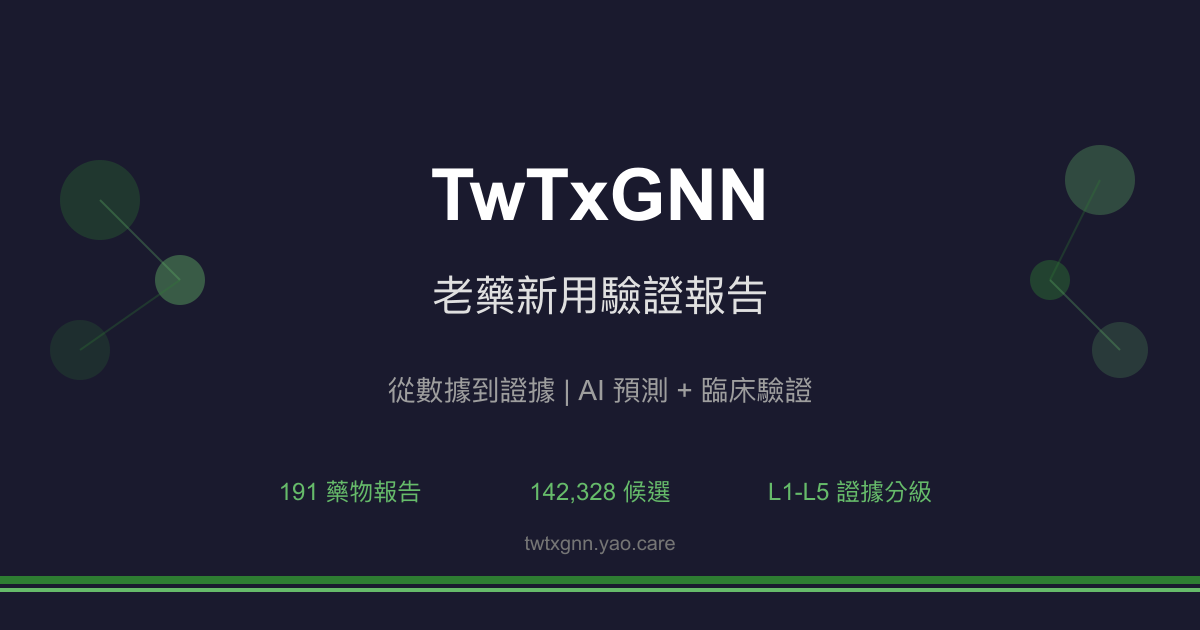
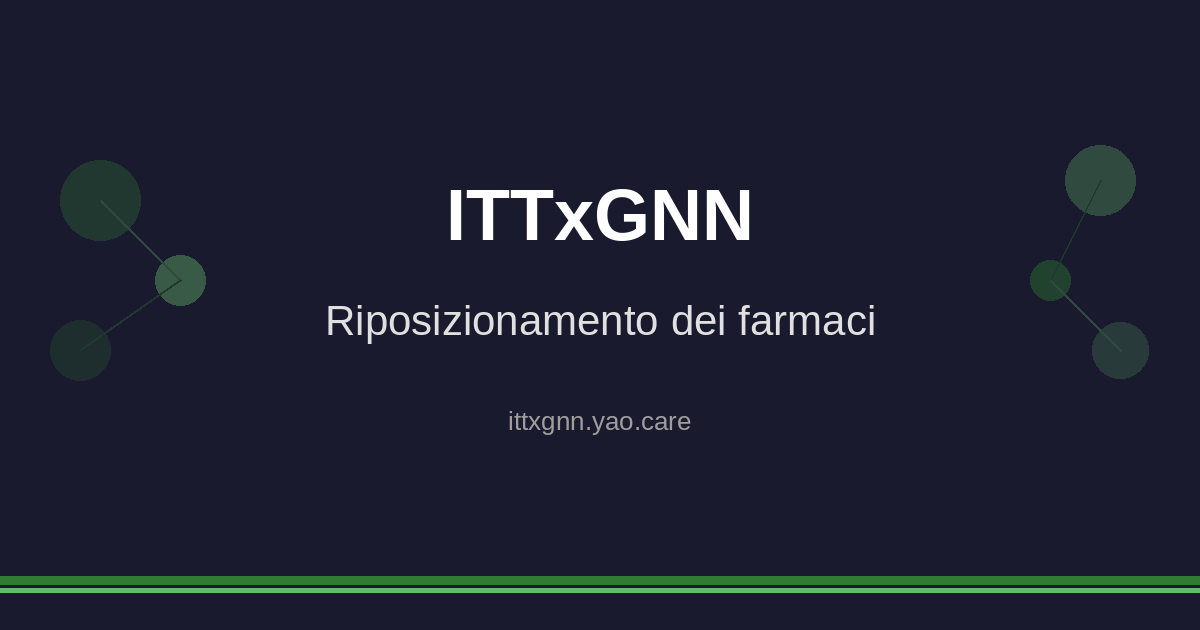
fix: 移除照抄 TwTxGNN 的內容（og 圖、分享按鈕）
- og-default.png／svg：原檔是 TwTxGNN 的圖（TwTxGNN、191 藥物報告、142,328 候選、twtxgnn.yao.care）。
  改由母 repo .claude/gen_og_image.py 產生本站圖：只放站名、網域、本站語言的一行副標（取自 _config.yml title），不放數字。
- assets/images/README.md：設計要求裡的「TwTxGNN」與標語改成本站實際內容，註明產生方式。
- _includes/social-share.html：X hashtag 與 mailto 主旨的 TwTxGNN → ITTxGNN；推文與郵件內文原為中文「老藥新用驗證報告」，按鈕文字原為英文，改成本站語言。（此 include 目前沒有頁面引用，先修正以免日後啟用時帶出 Tw 字樣。）

Claude-Session: https://claude.ai/code/session_013aGXmRzC9hmsD5XtZ9FusM

diff --git a/docs/_includes/social-share.html b/docs/_includes/social-share.html
@@ -1,14 +1,14 @@
-<!-- 學術分享按鈕 -->
+<!-- Share buttons -->
 <div class="social-share" style="margin: 2rem 0; padding: 1.25rem; background: #f8f9fa; border-radius: 8px; border: 1px solid #e0e0e0;">
-  <strong style="display: block; margin-bottom: 0.75rem; color: #333;">Share this report:</strong>
+  <strong style="display: block; margin-bottom: 0.75rem; color: #333;">Condividi questo report:</strong>
   <div style="display: flex; gap: 0.5rem; flex-wrap: wrap;">
     <!-- Twitter/X -->
-    <a href="https://twitter.com/intent/tweet?text={{ page.title | url_encode }}%20%E8%80%81%E8%97%A5%E6%96%B0%E7%94%A8%E9%A9%97%E8%AD%89%E5%A0%B1%E5%91%8A&url={{ page.url | absolute_url | url_encode }}&hashtags=DrugRepurposing,TwTxGNN"
+    <a href="https://twitter.com/intent/tweet?text={{ page.title | url_encode }}%20Report%20sul%20riposizionamento%20dei%20farmaci&url={{ page.url | absolute_url | url_encode }}&hashtags=DrugRepurposing,ITTxGNN"
        target="_blank" rel="noopener noreferrer"
        style="display: inline-flex; align-items: center; gap: 0.375rem; padding: 0.5rem 1rem; background: #000; color: white; text-decoration: none; border-radius: 6px; font-size: 0.9rem; font-weight: 500; transition: opacity 0.2s;"
        onmouseover="this.style.opacity='0.8'" onmouseout="this.style.opacity='1'">
       <svg width="16" height="16" fill="currentColor" viewBox="0 0 24 24"><path d="M18.244 2.25h3.308l-7.227 8.26 8.502 11.24H16.17l-5.214-6.817L4.99 21.75H1.68l7.73-8.835L1.254 2.25H8.08l4.713 6.231zm-1.161 17.52h1.833L7.084 4.126H5.117z"/></svg>
-      Share on X
+      Condividi su X
     </a>
 
     <!-- LinkedIn -->
@@ -20,16 +20,16 @@
       LinkedIn
     </a>
 
-    <!-- 複製連結 -->
+    <!-- Copy link -->
     <button onclick="copyReportLink(this)"
             style="display: inline-flex; align-items: center; gap: 0.375rem; padding: 0.5rem 1rem; background: #6c757d; color: white; border: none; border-radius: 6px; cursor: pointer; font-size: 0.9rem; font-weight: 500; transition: all 0.2s;"
             onmouseover="this.style.background='#5a6268'" onmouseout="this.style.background='#6c757d'">
       <svg width="16" height="16" fill="currentColor" viewBox="0 0 24 24"><path d="M16 1H4c-1.1 0-2 .9-2 2v14h2V3h12V1zm3 4H8c-1.1 0-2 .9-2 2v14c0 1.1.9 2 2 2h11c1.1 0 2-.9 2-2V7c0-1.1-.9-2-2-2zm0 16H8V7h11v14z"/></svg>
-      <span>Copy link</span>
+      <span>Copia link</span>
     </button>
 
     <!-- Email -->
-    <a href="mailto:?subject={{ page.title | url_encode }}%20-%20TwTxGNN&body=%E6%8E%A8%E8%96%A6%E9%80%99%E4%BB%BD%E8%80%81%E8%97%A5%E6%96%B0%E7%94%A8%E9%A9%97%E8%AD%89%E5%A0%B1%E5%91%8A%EF%BC%9A%0A%0A{{ page.url | absolute_url | url_encode }}"
+    <a href="mailto:?subject={{ page.title | url_encode }}%20-%20ITTxGNN&body=Ti%20consiglio%20questo%20report%20sul%20riposizionamento%20dei%20farmaci%3A%0A%0A{{ page.url | absolute_url | url_encode }}"
        style="display: inline-flex; align-items: center; gap: 0.375rem; padding: 0.5rem 1rem; background: #EA4335; color: white; text-decoration: none; border-radius: 6px; font-size: 0.9rem; font-weight: 500; transition: opacity 0.2s;"
        onmouseover="this.style.opacity='0.8'" onmouseout="this.style.opacity='1'">
       <svg width="16" height="16" fill="currentColor" viewBox="0 0 24 24"><path d="M20 4H4c-1.1 0-1.99.9-1.99 2L2 18c0 1.1.9 2 2 2h16c1.1 0 2-.9 2-2V6c0-1.1-.9-2-2-2zm0 4l-8 5-8-5V6l8 5 8-5v2z"/></svg>
@@ -44,7 +44,7 @@ function copyReportLink(btn) {
   navigator.clipboard.writeText(url).then(() => {
     const span = btn.querySelector('span');
     const originalText = span.textContent;
-    span.textContent = 'Copied!';
+    span.textContent = 'Copiato!';
     btn.style.background = '#28a745';
     setTimeout(() => {
       span.textContent = originalText;

diff --git a/docs/assets/images/README.md b/docs/assets/images/README.md
@@ -15,11 +15,15 @@ nav_exclude: true
 
 ### 設計要求
 
-1. 包含網站名稱「TwTxGNN」
-2. 包含標語「老藥新用，從數據到證據」
-3. 簡潔、專業風格
-4. 背景純色或簡單圖案
+1. 包含網站名稱「ITTxGNN」與網域
+2. 包含該站語言的一行副標（取自 _config.yml 的 title）
+3. 不放藥物數、候選數等數字（會過期）
+4. 簡潔、專業風格
 5. 適合在社群媒體預覽顯示
+
+### 產生方式
+
+由 TxGNN 母 repo 的 `.claude/gen_og_image.py` 產生（同時輸出 og-default.svg）。
 
 ### 使用位置
 
